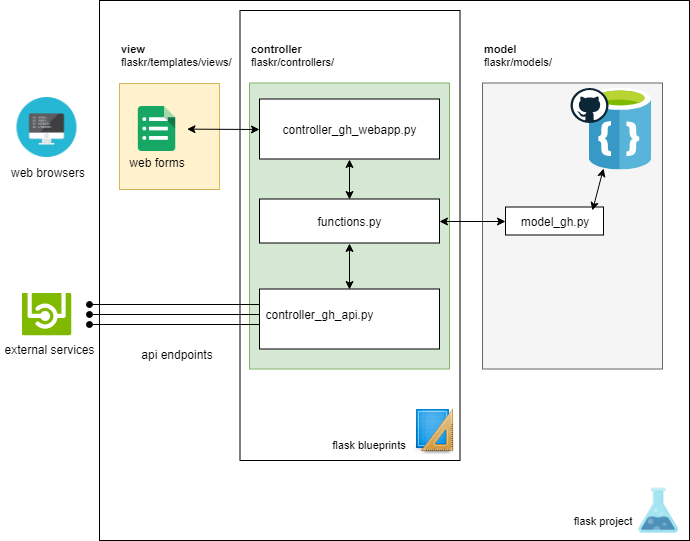
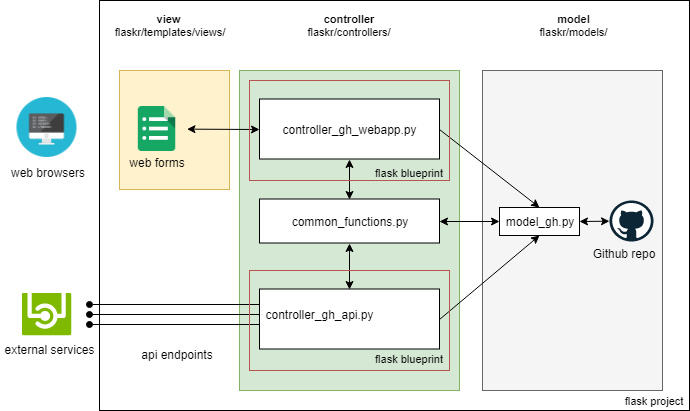
Merge remote-tracking branch 'origin/master' into dev
# Conflicts:
#	flaskr/controllers/controller_gh_files.py

diff --git a/flaskr/controllers/controller_gh_api.py b/flaskr/controllers/controller_gh_api.py
@@ -2,19 +2,18 @@ import os
 from flask import Blueprint, jsonify, request
 from flaskr.lib import global_variables, settings
 from flaskr.models import model_gh
-from flaskr.controllers import functions
+from flaskr.controllers import common_functions
 from werkzeug.utils import secure_filename
 
 
 controller_gh_api = Blueprint('controller_gh_api', __name__)
 
 
-# curl http://127.0.0.1:5000/api/gh_branches_manager/
 @controller_gh_api.route('/api/gh_branches_manager/', methods=['GET'])
 def api_gh_branches_manager():
     if request.method == "GET":
-        gh_session_id = functions.session_getter()[0]
-        branch_list = functions.branch_lister()
+        gh_session_id = common_functions.session_getter()[0]
+        branch_list = common_functions.branch_lister()
         response = jsonify({
             'gh_session_id': gh_session_id,
             'branches': branch_list,
@@ -27,8 +26,6 @@ def api_gh_branches_manager():
         return response
 
 
-# curl -X POST http://127.0.0.1:5000/api/branch/test2?branch_name_src=test
-# curl -X DELETE http://127.0.0.1:5000/api/branch/test/
 @controller_gh_api.route('/api/branch/<branch_name>/', methods=['POST', 'DELETE'])
 def api_branch(branch_name):
     if request.method == 'POST':
@@ -36,7 +33,7 @@ def api_branch(branch_name):
         branch_name_src = args['branch_name_src']
         branch_name_tgt = branch_name
         branch_name_tgt = str(branch_name_tgt).replace(' ', '')
-        gh_session_id = functions.session_getter()[0]
+        gh_session_id = common_functions.session_getter()[0]
         model_gh.Branch.create_branch(global_variables.obj,
                                       source_branch=branch_name_src,
                                       target_branch=branch_name_tgt)
@@ -53,7 +50,7 @@ def api_branch(branch_name):
         return response
 
     if request.method == 'DELETE':
-        gh_session_id = functions.session_getter()[0]
+        gh_session_id = common_functions.session_getter()[0]
         model_gh.Branch.delete_branch(global_variables.obj,
                                       branch_name=branch_name)
 
@@ -69,13 +66,12 @@ def api_branch(branch_name):
         return response
 
 
-# curl http://127.0.0.1:5000/api/gh_files_manager/branch/master/
 @controller_gh_api.route('/api/gh_files_manager/branch/<branch_name>/', methods=['GET'])
 def api_gh_files_manager(branch_name):
     if request.method == "GET":
-        gh_session_id = functions.session_getter()[0]
-        branch_list = functions.branch_lister()
-        files_list = functions.file_lister(branch_name)
+        gh_session_id = common_functions.session_getter()[0]
+        branch_list = common_functions.branch_lister()
+        files_list = common_functions.file_lister(branch_name)
         response = jsonify({
             'gh_session_id': gh_session_id,
             'branches': branch_list,
@@ -90,29 +86,20 @@ def api_gh_files_manager(branch_name):
         return response
 
 
-# curl -d "data=@path/to/my-file.txt" POST http://127.0.0.1:5000/api/branch/master/my-file.txt?commit_message="curl commit"
-# curl -d "data=@path/to/my-file.txt" PUT http://127.0.0.1:5000/api/branch/master/my-file.txt?commit_message="curl commit"
-# curl -d "data=@path/to/my-file.txt" DELETE http://127.0.0.1:5000/api/branch/master/my-file.txt?commit_message="curl commit"
 @controller_gh_api.route('/api/branch/<branch_name>/file/<file_name>/', methods=['POST', 'PUT', 'DELETE'])
 def api_file(branch_name, file_name):
     if request.method == 'POST':
         args = request.args
         message = args['commit_message']
-        gh_session_id = functions.session_getter()[0]
-        file_name = secure_filename(file_name.filename)
-
-        temp_file_path = os.path.join(os.getcwd(), 'temp', file_name)
-        with open(temp_file_path, "wb") as temp_file_handler:
-            file_contents = temp_file_handler.read(request.data)
+        gh_session_id = common_functions.session_getter()[0]
+        file_name = secure_filename(file_name)
+        file_contents = request.data
 
         model_gh.File.create_file(global_variables.obj,
                                   gh_file_path="flaskr/" + settings.repo_folder + file_name,
                                   message=message,
                                   content=file_contents,
                                   branch_name=branch_name)
-
-        os.unlink(temp_file_path)
-        assert not os.path.exists(temp_file_path)
 
         response = jsonify({
             'gh_session_id': gh_session_id,
@@ -129,14 +116,12 @@ def api_file(branch_name, file_name):
     if request.method == 'PUT':
         args = request.args
         message = args['commit_message']
-        gh_session_id = functions.session_getter()[0]
-
-        temp_file_path = os.path.join(os.getcwd(), 'temp', file_name)
-        with open(temp_file_path, "wb") as temp_file_handler:
-            file_contents = temp_file_handler.read(request.data)
+        gh_session_id = common_functions.session_getter()[0]
+        file_name = secure_filename(file_name)
+        file_contents = request.data
 
         model_gh.File.update_file(global_variables.obj,
-                                  gh_file_path=file_name,
+                                  gh_file_path="flaskr/" + settings.repo_folder + file_name,
                                   message=message,
                                   content=file_contents,
                                   branch_name=branch_name)
@@ -156,9 +141,9 @@ def api_file(branch_name, file_name):
     if request.method == 'DELETE':
         args = request.args
         message = args['commit_message']
-        gh_session_id = functions.session_getter()[0]
+        gh_session_id = common_functions.session_getter()[0]
         model_gh.File.delete_file(global_variables.obj,
-                                  gh_file_path=file_name,
+                                  gh_file_path="flaskr/" + settings.repo_folder + file_name,
                                   message=message,
                                   branch_name=branch_name)
         response = jsonify({

diff --git a/flaskr/tests/test_api.py b/flaskr/tests/test_api.py
@@ -3,28 +3,49 @@ test api endpoints
 """
 import pytest
 import requests
-
+import os
 
 @pytest.mark.parametrize(
-    "test_name, method, endpoint, expected_success_status_code",[
-        ('create branch', 'post', 'http://127.0.0.1:5000/api/branch/requests_test?branch_name_src=master', 201),
-        ('get branches', 'get', 'http://127.0.0.1:5000/api/gh_branches_manager/', 200),
-        ('create file', 'post', 'http://127.0.0.1:5000/api/branch/requests_test/my-file.txt?commit_message="pytest"', 200),
-        ('edit file', 'put', 'http://127.0.0.1:5000/api/branch/master/my-file.txt?commit_message="pytest"', 200),
-        ('get files', 'get', 'http://127.0.0.1:5000/api/gh_files_manager/branch/requests_test/', 200),
-        ('delete file', 'delete', 'http://127.0.0.1:5000/api/branch/requests_test/my-file.txt?commit_message="pytest"', 200),
-        ('delete branch', 'delete', 'http://127.0.0.1:5000/api/branch/requests_test/', 200),
+    "test_name, method, endpoint, params, expected_success_status_code",[
+        # to ensure a unique branch name for our test runner in the repo,
+        # concatenate "requests_test_" and this uuid "_51568f0d-5dc4-4f88-b53a-a7a3476203db"
+        ('create branch', 'post', 'http://127.0.0.1:5000/api/branch/requests_test_51568f0d-5dc4-4f88-b53a-a7a3476203db/', {'branch_name_src': 'master'}, 201),
+        ('get branches', 'get', 'http://127.0.0.1:5000/api/gh_branches_manager/', None, 200),
+        ('create file', 'post', 'http://127.0.0.1:5000/api/branch/requests_test_51568f0d-5dc4-4f88-b53a-a7a3476203db/file/my-file.txt/', {'commit_message': 'pytest'} , 201),
+        ('edit file', 'put', 'http://127.0.0.1:5000/api/branch/requests_test_51568f0d-5dc4-4f88-b53a-a7a3476203db/file/my-file.txt/', {'commit_message': 'pytest'}, 201),
+        ('get files', 'get', 'http://127.0.0.1:5000/api/gh_files_manager/branch/requests_test_51568f0d-5dc4-4f88-b53a-a7a3476203db/', None, 200),
+        ('delete file', 'delete', 'http://127.0.0.1:5000/api/branch/requests_test_51568f0d-5dc4-4f88-b53a-a7a3476203db/file/my-file.txt/', {'commit_message': 'pytest'}, 200),
+        ('delete branch', 'delete', 'http://127.0.0.1:5000/api/branch/requests_test_51568f0d-5dc4-4f88-b53a-a7a3476203db/', None, 200),
     ])
-def test_request(test_name, method, endpoint, expected_success_status_code):
-    print(test_name)
+def test_request(test_name, method, endpoint, params, expected_success_status_code):
+    response, file_content = None, None
 
     if method == "get":
         response = requests.get(endpoint)
+
     elif method == "post":
-        response = requests.get(endpoint)
+        if test_name == "create branch":
+            file_content = None
+        elif test_name == "create file":
+            # use the test file content as request data located in tests/files/test_file.txt for testing the post method
+            with open(os.path.join(os.getcwd(), 'files', 'test_file.txt')) as fp:
+                file_content = fp.read()
+        else:
+            raise NotImplementedError
+
+        response = requests.post(endpoint, data=file_content, params=params)
+
     elif method == "put":
-        response = requests.get(endpoint)
+        if test_name == "edit file":
+            # use the test file content as request data located in tests/files/test_file.txt for testing the put method
+            with open(os.path.join(os.getcwd(), 'files', 'test_file.txt')) as fp:
+                file_content = fp.read()
+        else:
+            raise NotImplementedError
+
+        response = requests.put(endpoint, data=file_content, params=params)
+
     elif method == "delete":
-        response = requests.get(endpoint)
+        response = requests.delete(endpoint, params=params)
 
     assert response.status_code == expected_success_status_code

diff --git a/flaskr/controllers/controller_gh_webapp.py b/flaskr/controllers/controller_gh_webapp.py
@@ -2,7 +2,7 @@ import os
 from flask import Blueprint, request, flash, redirect, render_template
 from flaskr.lib import global_variables, settings
 from flaskr.models import model_gh
-from flaskr.controllers import functions
+from flaskr.controllers import common_functions
 from werkzeug.utils import secure_filename
 
 controller_gh_webapp = Blueprint('controller_gh_webapp', __name__, template_folder='templates')
@@ -13,12 +13,12 @@ controller_gh_webapp = Blueprint('controller_gh_webapp', __name__, template_fold
 # with the html forms
 @controller_gh_webapp.route('/views/gh_branches_manager/', methods=['GET'])
 def gh_branches_manager():
-    gh_session_id = functions.session_getter()[0]
+    gh_session_id = common_functions.session_getter()[0]
     if str(gh_session_id).startswith("Github Exception"):
         flash('{}'.format(gh_session_id), category="warning")
         return redirect('/')
 
-    branch_list = functions.branch_lister()
+    branch_list = common_functions.branch_lister()
     if str(branch_list[0]).startswith("Github Exception"):
         flash('{}'.format(str(branch_list[0])), category="warning")
         return redirect('/')
@@ -43,17 +43,17 @@ def delete_branch(branch_name):
 
 @controller_gh_webapp.route('/views/gh_files_manager/branch/<branch_name>/', methods=['GET'])
 def gh_files_manager(branch_name):
-    gh_session_id = functions.session_getter()[0]
+    gh_session_id = common_functions.session_getter()[0]
     if str(gh_session_id).startswith("Github Exception"):
         flash('{}'.format(gh_session_id), category="warning")
         return redirect('/')
 
-    branch_list = functions.branch_lister()
+    branch_list = common_functions.branch_lister()
     if str(branch_list[0]).startswith("Github Exception"):
         flash('{}'.format(str(branch_list[0])), category="warning")
         return redirect('/')
 
-    files_list = functions.file_lister(branch_name)
+    files_list = common_functions.file_lister(branch_name)
     if str(files_list[0]).startswith("Github Exception"):
         flash('{}'.format(str(files_list[0])), category="warning")
         return redirect('/')
@@ -73,9 +73,9 @@ def upload_file(branch_name):
 
 @controller_gh_webapp.route('/views/gh_files_manager/branch/<branch_name>/file/put/<path:file_name>', methods=['GET'])
 def edit_file(branch_name, file_name):
-    file_status_code = functions.file_exists_checker(gh_file_path=file_name, branch_name=branch_name)[0]
+    file_status_code = common_functions.file_exists_checker(gh_file_path=file_name, branch_name=branch_name)[0]
     if file_status_code == 200:
-        file_contents = functions.file_content_getter(gh_file_path=file_name, branch_name=branch_name)[0]
+        file_contents = common_functions.file_content_getter(gh_file_path=file_name, branch_name=branch_name)[0]
         return render_template('views/file_editor.html',
                                template_current_branch=branch_name,
                                file_name=file_name,
@@ -87,7 +87,7 @@ def edit_file(branch_name, file_name):
 
 @controller_gh_webapp.route('/views/gh_files_manager/branch/<branch_name>/file/delete/<path:file_name>', methods=['GET'])
 def delete_file(branch_name, file_name):
-    file_status_code = functions.file_exists_checker(gh_file_path=file_name, branch_name=branch_name)[0]
+    file_status_code = common_functions.file_exists_checker(gh_file_path=file_name, branch_name=branch_name)[0]
     if file_status_code == 200:
         return render_template('views/file_deleter.html',
                                template_current_branch=branch_name,
